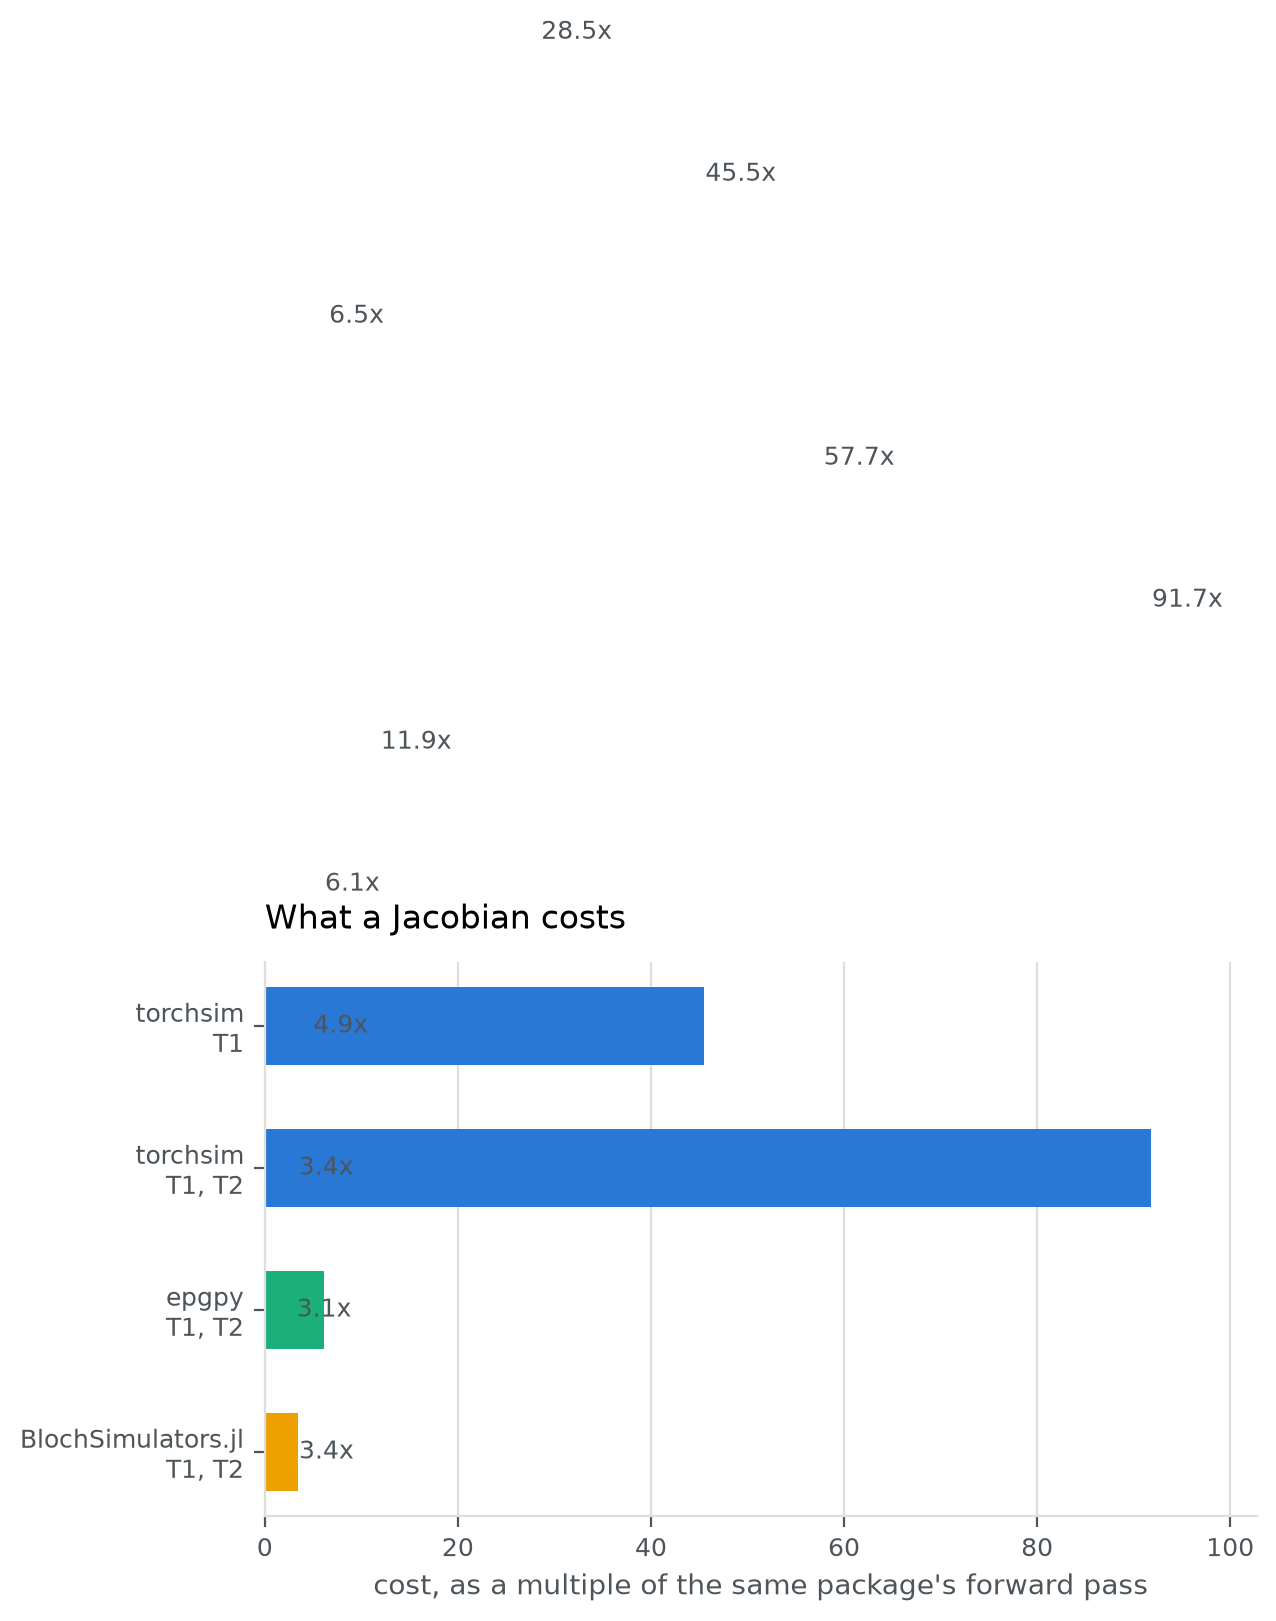
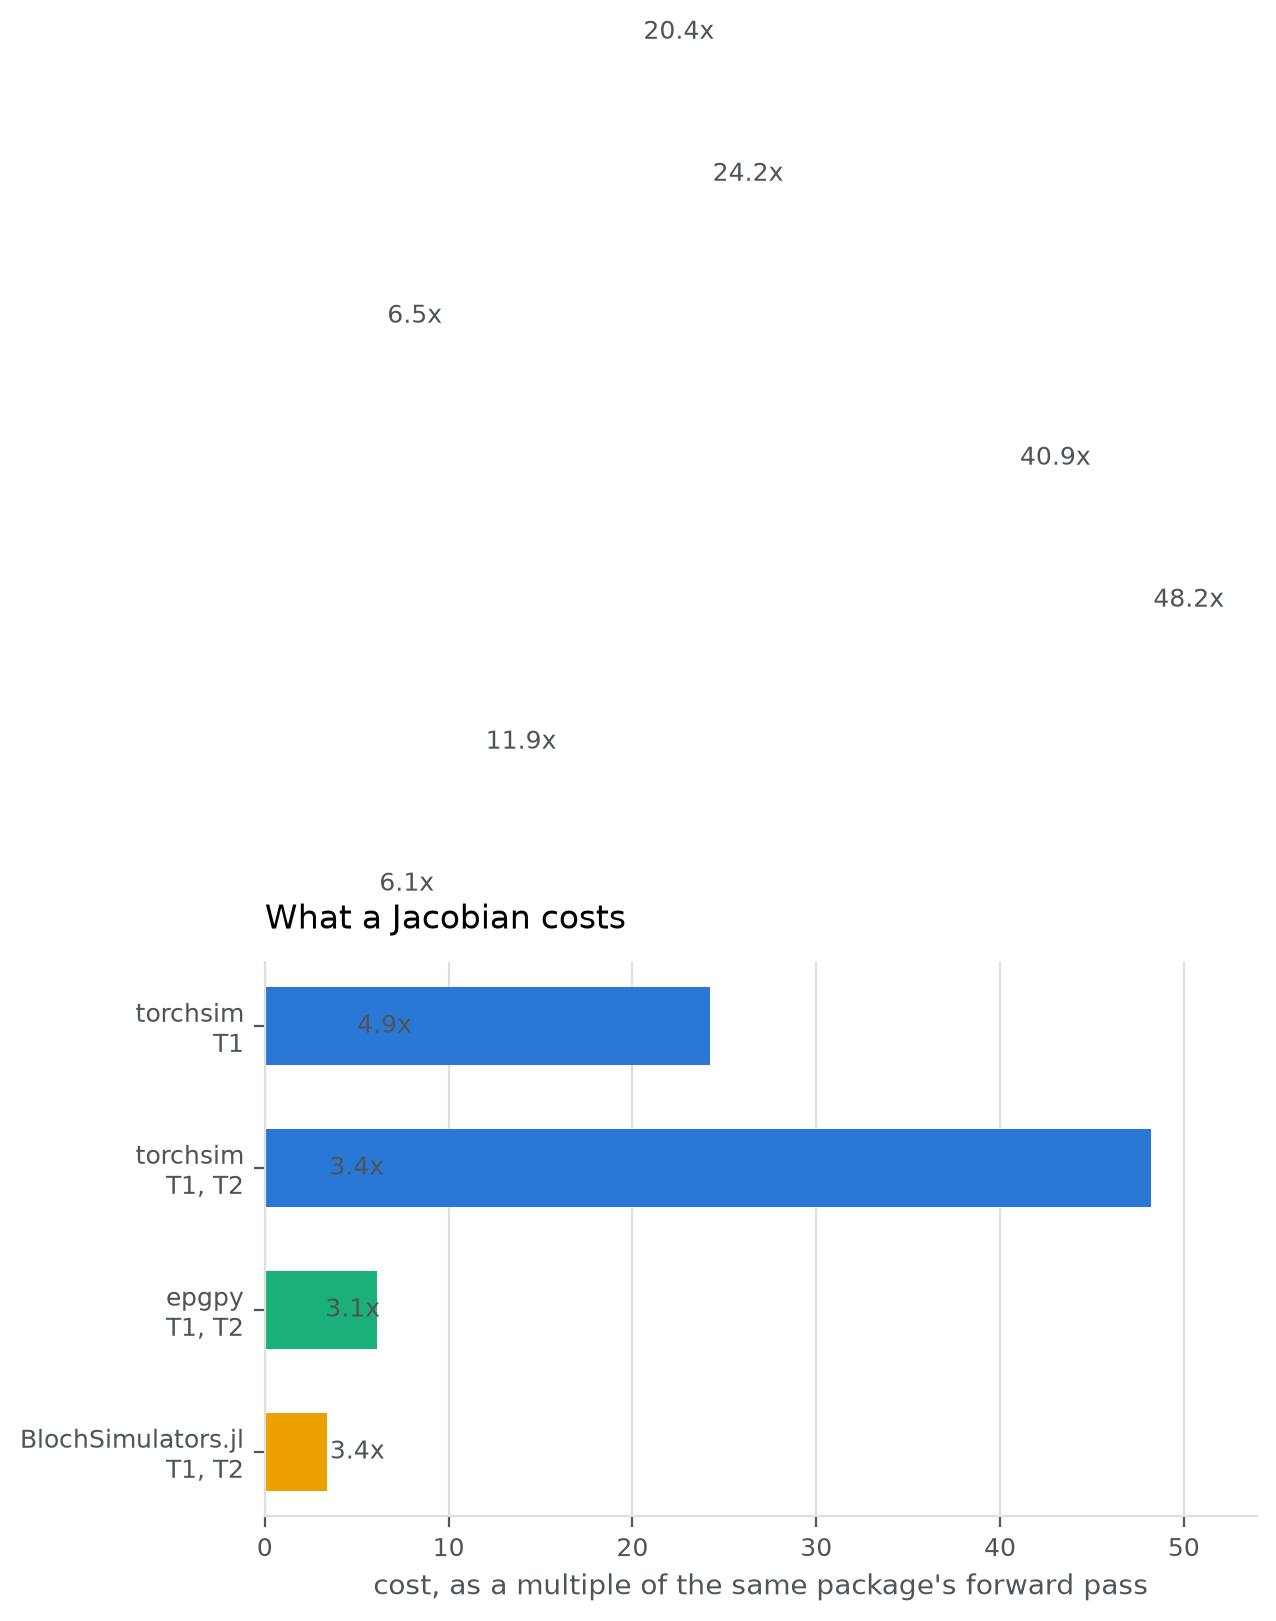
Take the lane kernels only where there are trains to fill them
A lane block carries eight trains of one atom. A dictionary has one train per
atom, so seven of the eight lanes were filled with repeats of the first and the
kernel paid for arithmetic it then discarded -- which made the forward-mode
pass over a dictionary run at half the speed of the scalar kernel it was
chosen over. Both dispatches now ask for eight trains before they ask for the
lane kernel.

A two-property Jacobian over ten thousand atoms falls from 16.9 s to 8.9 s, and
the same pass measured directly through `_run_packed_jvp` from 458 ms to 228 ms.
Nothing about a slice-profiled run changes: that is where the trains are.

The dual kernels reach their fast path, which forcing the verdict confirms --
asking for the real axis takes the same time as letting it be decided, on the
plain pass and on the forward-mode one alike. What is left is that the real
forward kernel is 12x its complex counterpart while the real forward-mode
kernel is 2.5x its own: the plain one vectorizes over configuration orders and
the dual one does not. A lane kernel over atoms rather than trains is what
would close that, and `benchmarks/anatomy.py` reports the distance -- 35x its
own forward pass on the real path, against 5x on the complex one.

Claude-Session: https://claude.ai/code/session_01QCs8vtxBF1rvnKiYkg7Kah

diff --git a/tests/utils/interpreted.py b/tests/utils/interpreted.py
@@ -452,6 +452,90 @@ def _real(voxels: int, states: int, shims: int = 1) -> None:
         print(f"  undriven shim row   {float(rows[driven:].abs().max()):.2e}")
 
 
+def _spoiled(voxels: int, states: int) -> None:
+    """The real kernels on a train with no refocusing pulse in it.
+
+    A fingerprinting schedule holds its states on one axis the same way a
+    refocused train does -- every pulse turns about it -- but it reaches the
+    kernels through different actions: an ideal inversion, a winding after each
+    sample, and no crusher pair anywhere. The verdict is earned rather than
+    forced, and the forward pass, the forward-mode pass and the adjoint are
+    each held to the complex kernels that carry the same train.
+    """
+    install()
+    from torchsim.sequence import _builders, _epg_triton
+    from torchsim.sequence._accelerators import real_subspace_axis
+    from torchsim.sequence._parameters import FLOAT_NAMES, OUTSIDE_THE_SUBSPACE
+    from utils.packed_reference import simulate_packed
+
+    repetitions = 6
+    tissue = _tissue(voxels)
+    events, outputs = _events(
+        _builders.mrf_description(
+            torch.deg2rad(torch.linspace(10.0, 60.0, repetitions)),
+            10e-3,
+            phases_rad=0.0,
+        )
+    )
+    assert real_subspace_axis(events, tissue) == 1, "this train is not in the subspace"
+    shape = dict(state_count=states, output_count=outputs)
+
+    expected = simulate_packed(tissue, events, **shape)
+    signal = _epg_triton.simulate(tissue, events, real_axis=1, **shape)
+    forward = float((signal - expected).abs().max() / expected.abs().max())
+    print(f"  spoiled forward     {forward:.2e}")
+    assert forward <= ORACLE_TOLERANCE, f"spoiled forward drifted: {forward:.2e}"
+
+    # Forward mode along the two relaxation times, which is what a dictionary
+    # Jacobian seeds and what the estimators consume.
+    tangents = list(torch.zeros_like(value) for value in tissue)
+    tangents[0] = torch.ones_like(tissue[0])
+    tangents[1] = torch.ones_like(tissue[1])
+    zeros = (
+        torch.zeros_like(events[0]),
+        torch.zeros_like(events[2]),
+        torch.zeros_like(events[3]),
+    )
+    real_jvp = _epg_triton.simulate_jvp(
+        tissue, events, tuple(tangents), zeros, real_axis=1, **shape
+    )
+    complex_jvp = _epg_triton.simulate_jvp(
+        tissue, events, tuple(tangents), zeros, **shape
+    )
+    scale = float(complex_jvp[1].abs().max())
+    assert scale > 1e-6, "the forward-mode pass returned nothing"
+    drift = float((complex_jvp[1] - real_jvp[1]).abs().max()) / scale
+    print(f"  spoiled forward-mode {drift:.2e}")
+    assert drift <= ORACLE_TOLERANCE, f"spoiled forward-mode drifted: {drift:.2e}"
+
+    generator = torch.Generator().manual_seed(23)
+    seed = torch.complex(
+        torch.rand(voxels, outputs, generator=generator) * 2.0 - 1.0,
+        torch.rand(voxels, outputs, generator=generator) * 2.0 - 1.0,
+    )
+    real = _epg_triton.simulate_real_vjp(tissue, events, seed, **shape)
+    complex_side = _epg_triton.simulate_vjp(tissue, events, seed, **shape)
+    scale = max(
+        float(value.abs().max())
+        for index, value in enumerate(complex_side)
+        if value.numel() and index not in OUTSIDE_THE_SUBSPACE
+    )
+    assert scale > 1e-3, f"the adjoint returned nothing: {scale:.2e}"
+    worst = 0.0
+    for index, (a, b) in enumerate(zip(complex_side, real, strict=False)):
+        if not a.numel() or not b.numel():
+            continue
+        if index in OUTSIDE_THE_SUBSPACE:
+            assert float(b.abs().max()) == 0.0, (
+                f"{FLOAT_NAMES[index]} is outside the subspace but reads "
+                f"{float(b.abs().max()):.2e}"
+            )
+            continue
+        worst = max(worst, float((a - b).abs().max()) / scale)
+    print(f"  spoiled adjoint     {worst:.2e} of {scale:.2e}")
+    assert worst <= ORACLE_TOLERANCE, f"spoiled adjoint drifted: {worst:.2e}"
+
+
 def _pooled(voxels: int, states: int, pools: int) -> None:
     """One and two pools, against an oracle and against the pass they specialize.
 
@@ -617,6 +701,9 @@ def _case(name: str) -> None:
         return
     if name == "real_shimmed":
         _real(3, 4, shims=3)
+        return
+    if name == "spoiled":
+        _spoiled(3, 4)
         return
     if name == "one_pool":
         _pooled(3, 4, 1)

diff --git a/src/torchsim/_epg_cpu.cpp b/src/torchsim/_epg_cpu.cpp
@@ -8691,7 +8691,13 @@ void dispatch_jvp(
     const Pools pools
 ) {
     const bool single = pools == Pools::ONE;
+    // Lanes run eight trains of one atom at a time, so a run with fewer trains
+    // than that fills the rest of the block with repeats of the first and pays
+    // for arithmetic it throws away. A dictionary has one train per atom, which
+    // is the shape this would cost the most on: the scalar kernel is the faster
+    // one there, and measurably so.
     const bool lanes = real_axis == 1 && single && lane_kernels_enabled()
+        && train_count >= static_cast<std::int64_t>(REAL_LANES)
         && !any_diffusion(buffers.primal.diffusion, atom_count)
         && !any_diffusion(buffers.diffusion, atom_count);
     void (*kernel)(
@@ -9111,7 +9117,13 @@ void dispatch_second_order(
     const Pools pools
 ) {
     const bool bound = pools != Pools::ONE;
+    // Lanes run eight trains of one atom at a time, so a run with fewer trains
+    // than that fills the rest of the block with repeats of the first and pays
+    // for arithmetic it throws away. A dictionary has one train per atom, which
+    // is the shape this would cost the most on: the scalar kernel is the faster
+    // one there, and measurably so.
     const bool lanes = real_axis == 1 && !bound && lane_kernels_enabled()
+        && train_count >= static_cast<std::int64_t>(REAL_LANES)
         && !any_diffusion(buffers.primal.diffusion, atom_count)
         && !any_diffusion(buffers.dot_diffusion, atom_count);
     void (*kernel)(

diff --git a/tests/sequence/test_interpreted.py b/tests/sequence/test_interpreted.py
@@ -56,6 +56,7 @@ def _run(case: str) -> subprocess.CompletedProcess[str]:
         "two_pools",
         "real",
         "real_shimmed",
+        "spoiled",
     ],
 )
 def test_the_kernels_agree_with_what_they_specialize(case: str) -> None:

diff --git a/benchmarks/README.md b/benchmarks/README.md
@@ -173,17 +173,26 @@ tissue, not the EPG arithmetic underneath them. Epgpy, vectorized across
 tissues, shows the same thing from the other side: its per-tissue cost falls by
 an order of magnitude between one tissue and a hundred, then stops improving.
 
-**The Jacobian did not follow the forward pass onto the fast path.** At ten
-thousand tissues: BlochSimulators' finite differences 0.79 s, which is 3.0x its
-own forward pass and is what three passes should cost; TorchSim's dual
-arithmetic 16.9 s for two properties and 8.4 s for one; epgpy's analytic
+**The Jacobian reaches the fast path, and the kernel behind it is what is
+slow.** Forcing the verdict rather than letting it be decided settles which:
+`_run_packed_jvp` with the real axis asked for runs in the same time as the
+call that decides for itself, so the decision is right. What differs is the
+gain -- the real *forward* kernel is 12x its complex counterpart, the real
+forward-*mode* kernel only 2.5x -- and one cause of that was a lane kernel
+running eight trains at a time on a dictionary that has one, filling seven
+lanes with repeats. It is now taken only where there are trains to fill it.
+
+At ten thousand tissues: BlochSimulators' finite differences 0.79 s, which is
+3.0x its own forward pass and is what three passes should cost; TorchSim's dual
+arithmetic 8.9 s for two properties and 4.5 s for one; epgpy's analytic
 derivative 177 s, 4.9x its own. TorchSim's is linear in the number of
-properties, as forward mode should be, and it is exact where the finite
-differences are not -- but it is now **92x its own forward pass** where it was
-12x before the verdict widened. `anatomy.py` isolates that on one event stream:
-60x its forward pass on the real path against 5x on the complex one. Whatever
-the plain kernels gained, the dual ones did not gain with them, and that is
-where the CPU work goes next.
+properties, as forward mode should be, and exact where the finite differences
+are not, but it is still 45x its own forward pass for three passes' worth of
+arithmetic. `anatomy.py` isolates that on one event stream: 35x its forward
+pass on the real path against 5x on the complex one. The remaining distance is
+that the plain real kernel vectorizes over configuration orders and the dual
+one does not; a lane kernel over *atoms* rather than trains is what would close
+it, and is the next piece of CPU work.
 
 **Which of the two obvious optimizations is worth doing depends on the path,
 and `anatomy.py` measures both.** Split the time into what scales with the

diff --git a/benchmarks/results/table.md b/benchmarks/results/table.md
@@ -38,20 +38,20 @@
 | torchsim | forward | 4 | 1 | 0.0019 | 522 | 714 | 107.0 |
 | torchsim | forward | 4 | 10 | 0.0043 | 2,339 | 714 | 107.0 |
 | torchsim | forward | 4 | 100 | 0.0282 | 3,551 | 714 | 107.1 |
-| torchsim | forward | 4 | 1000 | 0.0298 | 33,595 | 724 | 116.5 |
+| torchsim | forward | 4 | 1000 | 0.0221 | 45,284 | 723 | 116.4 |
 | torchsim | forward | 4 | 10000 | 0.1839 | 54,385 | 826 | 218.7 |
 | torchsim | forward | 4 | 100000 | 23.4589 | 4,263 | 1862 | 1255.1 |
 | torchsim | jacobian(T1) | 4 | 1 | 0.0089 | 112 | 721 | 113.8 |
 | torchsim | jacobian(T1) | 4 | 10 | 0.0229 | 437 | 721 | 113.7 |
 | torchsim | jacobian(T1) | 4 | 100 | 0.1488 | 672 | 721 | 113.7 |
-| torchsim | jacobian(T1) | 4 | 1000 | 0.8479 | 1,179 | 745 | 138.1 |
-| torchsim | jacobian(T1) | 4 | 10000 | 8.3624 | 1,196 | 948 | 340.5 |
+| torchsim | jacobian(T1) | 4 | 1000 | 0.4515 | 2,215 | 746 | 138.4 |
+| torchsim | jacobian(T1) | 4 | 10000 | 4.4521 | 2,246 | 948 | 340.8 |
 | torchsim | jacobian(T1) | 4 | 100000 | 152.7505 | 655 | 3012 | 2404.9 |
 | torchsim | jacobian(T1,T2) | 4 | 1 | 0.0166 | 60 | 721 | 113.7 |
 | torchsim | jacobian(T1,T2) | 4 | 10 | 0.0443 | 226 | 721 | 113.7 |
 | torchsim | jacobian(T1,T2) | 4 | 100 | 0.2971 | 337 | 721 | 113.7 |
-| torchsim | jacobian(T1,T2) | 4 | 1000 | 1.7190 | 582 | 760 | 152.9 |
-| torchsim | jacobian(T1,T2) | 4 | 10000 | 16.8700 | 593 | 1061 | 453.5 |
+| torchsim | jacobian(T1,T2) | 4 | 1000 | 0.9038 | 1,106 | 760 | 152.7 |
+| torchsim | jacobian(T1,T2) | 4 | 10000 | 8.8602 | 1,129 | 1062 | 455.1 |
 | torchsim | jacobian(T1,T2) | 4 | 100000 | 278.2875 | 359 | 4158 | 3550.8 |
 
 - BlochSimulators.jl n=1000: float32; real RF train, so the states stay real; max_state is a multiple of 32 by construction

diff --git a/CHANGELOG.md b/CHANGELOG.md
@@ -19,6 +19,14 @@
   lane-vectorized real ones. The signal is unchanged to the last bit the
   comparison in `benchmarks/validate.py` can see.
 
+- **The lane kernels are taken only where there are trains to fill them.** A
+  block of eight lanes carries eight trains of one atom, so a run with fewer
+  trains than that -- a dictionary has one -- filled the rest with repeats of
+  the first and paid for arithmetic it discarded. Forward-mode passes over a
+  dictionary took the lane kernel and ran at half the speed of the scalar one;
+  they now take the scalar one, and a two-property Jacobian over ten thousand
+  atoms falls from 16.9 s to 8.9 s.
+
 - **Packing a description computes each pulse's flip angle once per RF
   definition**, over all its occurrences at once, rather than once per event.
   Resolving a binding packs the description several times over -- once plainly
